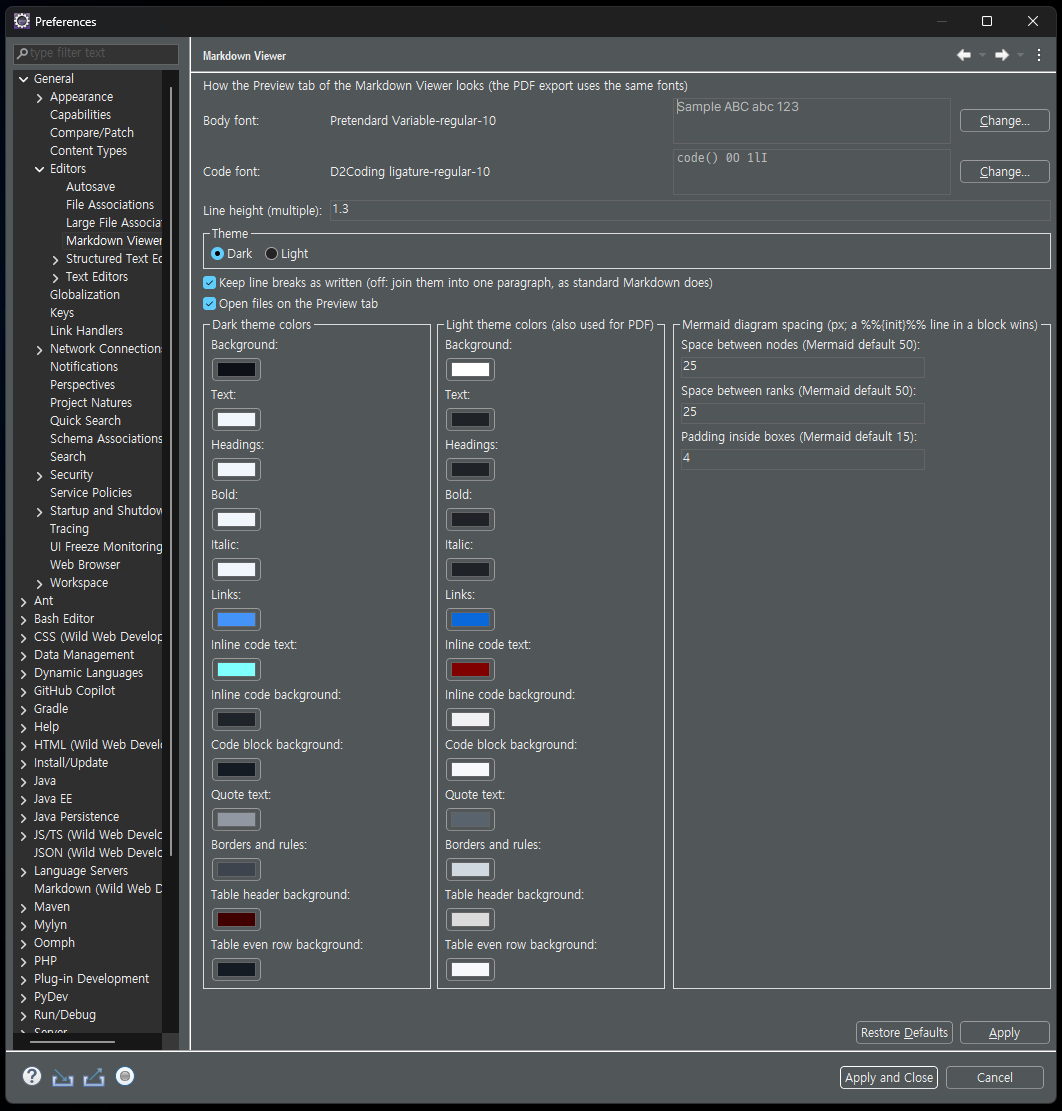
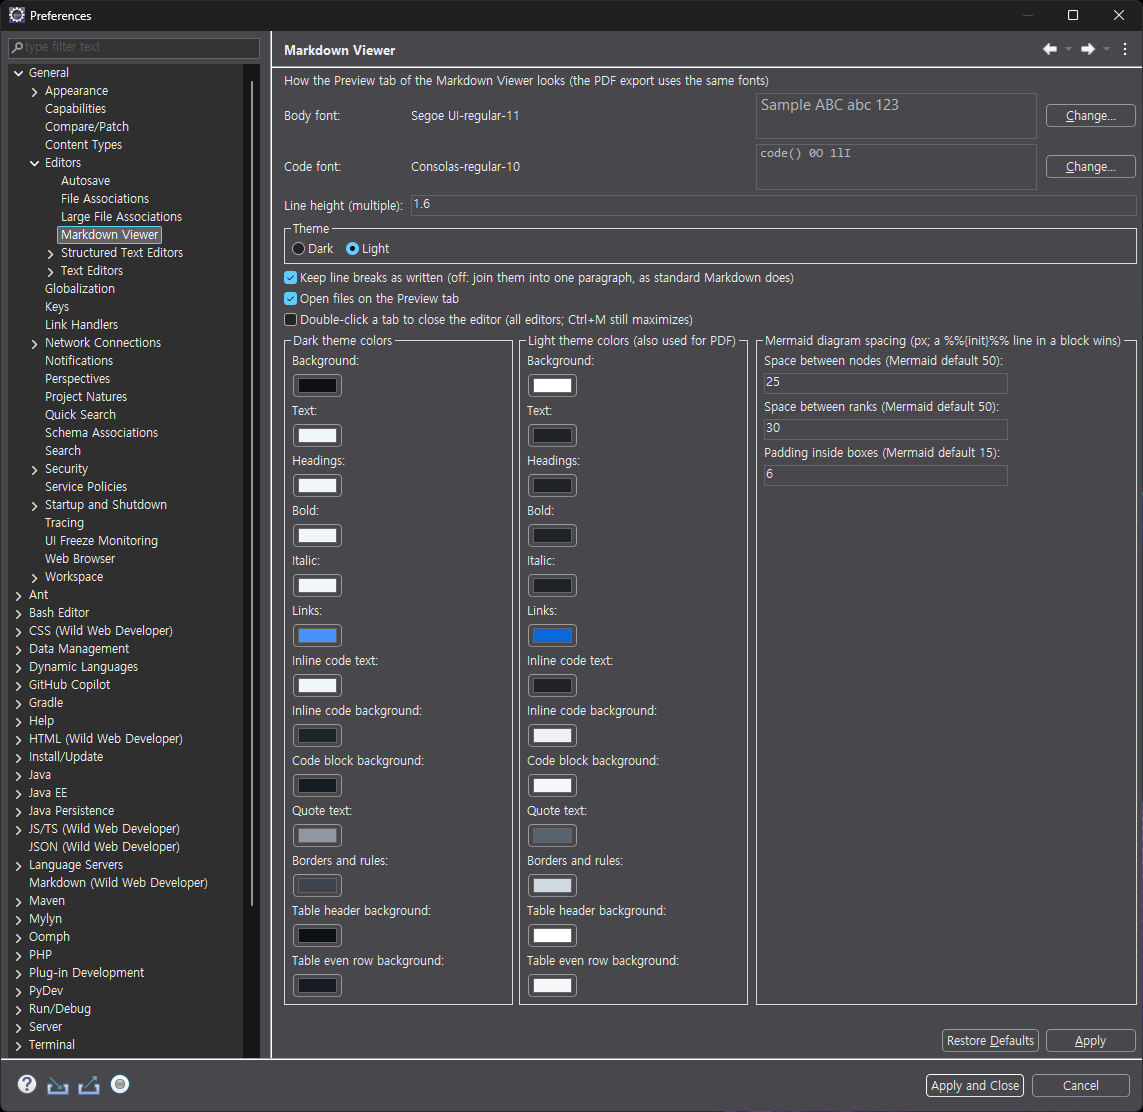
Default to Eclipse's own dialog and text fonts, not Korean ones; new screenshots with the defaults. Version 1.1.1.

Changed region(s): [[0.0, 0.0, 1.0, 1.0]]

diff --git a/web/preview.js b/web/preview.js
@@ -32,16 +32,16 @@ function createMd(markdownit, taskLists, hljs, getBase) {
 }
 if (typeof module !== 'undefined') module.exports = { createMd };
 
-let BASE = '', SRC = '', MERMAID = {}, FONTVARS = '', COLORS = { dark: {}, light: {} }, FONT = { name: 'Malgun Gothic', size: 11 }, THEME = 'dark', SPACING = { node: 25, rank: 30, pad: 6 };
+let BASE = '', SRC = '', MERMAID = {}, FONTVARS = '', COLORS = { dark: {}, light: {} }, FONT = { name: 'system-ui', size: 11 }, THEME = 'dark', SPACING = { node: 25, rank: 30, pad: 6 };
 const md = typeof window !== 'undefined' ? createMd(window.markdownit, window.markdownitTaskLists, window.hljs, () => BASE) : null;
 
 function applyStyle(font, size, code, csize, lh, theme, breaks, colors, spacing) {
 	md.set({ breaks: !!breaks }); // keep single newlines as <br>
 	const r = document.documentElement, s = r.style;
 	r.dataset.theme = theme;
-	s.setProperty('--font', `'${font}', 'Malgun Gothic', sans-serif`);
+	s.setProperty('--font', `'${font}', system-ui, sans-serif`);
 	s.setProperty('--size', size + 'pt');
-	s.setProperty('--code-font', `'${code}', D2Coding, Consolas, monospace`);
+	s.setProperty('--code-font', `'${code}', Consolas, monospace`);
 	s.setProperty('--code-size', csize + 'pt');
 	s.setProperty('--lh', lh);
 	// indent = width of 4 monospace Latin chars at body size
@@ -59,7 +59,7 @@ function applyStyle(font, size, code, csize, lh, theme, breaks, colors, spacing)
 	for (const [k, v] of Object.entries(COLORS[theme] || {})) s.setProperty(k, v);
 	document.getElementById('hl').href = theme === 'light' ? 'hl-light.css' : 'hl-dark.css';
 	// diagrams use the body font and size too
-	const ff = `'${font}', 'Malgun Gothic', sans-serif`;
+	const ff = `'${font}', system-ui, sans-serif`;
 	MERMAID = { startOnLoad: false, securityLevel: 'strict', theme: theme === 'light' ? 'default' : 'dark',
 		fontFamily: ff, themeVariables: { fontFamily: ff, fontSize: size + 'pt' }, ...mermaidSpacing(SPACING) };
 	mermaid.initialize(MERMAID);

diff --git a/web/preview.css b/web/preview.css
@@ -1,7 +1,7 @@
 /* layout after github-markdown-css; colors come from preferences (GitHub defaults below) */
 :root { --bg:#0d1117; --fg:#f0f6fc; --heading:#f0f6fc; --strong:#f0f6fc; --em:#f0f6fc; --link:#4493f8; --code:#f0f6fc;
 	--code-bg:#1f232a; --pre-bg:#151b23; --quote:#9198a1; --border:#3d444d; --th-bg:#0d1117; --row-alt:#151b23;
-	--font:'Malgun Gothic',sans-serif; --size:11pt; --code-font:D2Coding,Consolas,monospace; --code-size:10pt; --lh:1.6; --indent:4ch }
+	--font:system-ui,sans-serif; --size:11pt; --code-font:Consolas,monospace; --code-size:10pt; --lh:1.6; --indent:4ch }
 html { background:var(--bg) }
 body { margin:0; padding:16px 32px 32px; color:var(--fg); background:var(--bg); font-family:var(--font); font-size:var(--size); line-height:var(--lh); overflow-wrap:break-word }
 body.export { padding:0 }

diff --git a/src/io/github/insjang/mdviewer/PrefInit.java b/src/io/github/insjang/mdviewer/PrefInit.java
@@ -3,6 +3,7 @@ package io.github.insjang.mdviewer;
 import org.eclipse.core.runtime.preferences.AbstractPreferenceInitializer;
 import org.eclipse.jface.preference.IPreferenceStore;
 import org.eclipse.jface.preference.PreferenceConverter;
+import org.eclipse.jface.resource.JFaceResources;
 import org.eclipse.swt.SWT;
 import org.eclipse.swt.graphics.FontData;
 
@@ -14,8 +15,9 @@ public class PrefInit extends AbstractPreferenceInitializer {
 	@Override
 	public void initializeDefaultPreferences() {
 		IPreferenceStore s = Activator.prefs();
-		PreferenceConverter.setDefault(s, BODY_FONT, new FontData("Malgun Gothic", 11, SWT.NORMAL));
-		PreferenceConverter.setDefault(s, CODE_FONT, new FontData("D2Coding ligature", 10, SWT.NORMAL));
+		// Eclipse's own dialog and text fonts (Segoe UI and Consolas on Windows), so the defaults exist everywhere
+		PreferenceConverter.setDefault(s, BODY_FONT, new FontData(JFaceResources.getFontRegistry().getFontData(JFaceResources.DIALOG_FONT)[0].getName(), 11, SWT.NORMAL));
+		PreferenceConverter.setDefault(s, CODE_FONT, new FontData(JFaceResources.getFontRegistry().getFontData(JFaceResources.TEXT_FONT)[0].getName(), 10, SWT.NORMAL));
 		s.setDefault(LINE_HEIGHT, "1.6");
 		s.setDefault(THEME, "dark");
 		s.setDefault(OPEN_PREVIEW, true);

diff --git a/README.md b/README.md
@@ -6,11 +6,9 @@ It renders GitHub Flavored Markdown with the same parser VS Code uses (markdown-
 
 [한국어 README](README.ko.md)
 
-| Dark theme | Light theme |
-|---|---|
-| ![Preview tab in Eclipse, dark theme](docs/images/eclipse-preview.png) | ![Preview tab in Eclipse, light theme](docs/images/eclipse-light.png) |
-
-![Mermaid and PlantUML in the preview](docs/images/eclipse-diagrams.png)
+| Source tab | Preview tab, dark theme | Preview tab, light theme |
+|---|---|---|
+| ![Source tab in Eclipse](docs/images/eclipse-source.png) | ![Preview tab in Eclipse, dark theme](docs/images/eclipse-preview.png) | ![Preview tab in Eclipse, light theme](docs/images/eclipse-light.png) |
 
 | Dark theme | Light theme (also used for PDF) |
 |---|---|
@@ -84,12 +82,12 @@ Every build gets a new version qualifier, so a plain restart picks up a replaced
 
 Preferences > General > Editors > Markdown Viewer
 
-![Markdown Viewer preferences (the values shown are customized, not the defaults)](docs/images/preferences.png)
+![Markdown Viewer preferences: the defaults, with the light theme selected](docs/images/preferences.png)
 
 | Setting | Default |
 |---|---|
-| Body font | Malgun Gothic 11 pt |
-| Code font | D2Coding ligature 10 pt (ligatures are turned off in the preview) |
+| Body font | Eclipse dialog font, 11 pt (Segoe UI on English Windows, Malgun Gothic on Korean Windows) |
+| Code font | Eclipse text font, 10 pt (Consolas on Windows; ligatures are turned off in the preview) |
 | Line height | 1.6 |
 | Theme | Dark |
 | Keep line breaks as written | On (off: standard Markdown, lines join into one paragraph) |

diff --git a/README.ko.md b/README.ko.md
@@ -2,11 +2,9 @@
 
 [English README](README.md)
 
-| 다크 테마 | 라이트 테마 |
-|---|---|
-| ![Eclipse 안의 Preview 탭, 다크 테마](docs/images/eclipse-preview.png) | ![Eclipse 안의 Preview 탭, 라이트 테마](docs/images/eclipse-light.png) |
-
-![미리보기의 Mermaid와 PlantUML](docs/images/eclipse-diagrams.png)
+| Source 탭 | Preview 탭, 다크 테마 | Preview 탭, 라이트 테마 |
+|---|---|---|
+| ![Eclipse 안의 Source 탭](docs/images/eclipse-source.png) | ![Eclipse 안의 Preview 탭, 다크 테마](docs/images/eclipse-preview.png) | ![Eclipse 안의 Preview 탭, 라이트 테마](docs/images/eclipse-light.png) |
 
 | 다크 테마 | 라이트 테마 (PDF에도 사용) |
 |---|---|
@@ -80,12 +78,12 @@ ECLIPSE=/path/to/eclipse ./build.sh site       # build/site 에 p2 업데이트 
 
 Preferences → General → Editors → Markdown Viewer
 
-![Markdown Viewer 설정 화면 (기본값이 아닌 사용자 설정 상태)](docs/images/preferences.png)
+![Markdown Viewer 설정 화면: 기본값에서 라이트 테마만 선택한 상태](docs/images/preferences.png)
 
 | 항목 | 기본값 |
 |---|---|
-| 본문 글꼴 | 맑은 고딕 11pt |
-| 코드 글꼴 | D2Coding ligature 10pt (Preview에서는 합자 끔) |
+| 본문 글꼴 | Eclipse 대화상자 글꼴 11pt (한국어 Windows: 맑은 고딕, 영문 Windows: Segoe UI) |
+| 코드 글꼴 | Eclipse 텍스트 글꼴 10pt (Windows: Consolas, Preview에서는 합자 끔) |
 | 줄 간격 | 1.6 |
 | 테마 | 어둡게 |
 | 원문 줄바꿈 그대로 표시 | 켜짐 (끄면 표준 Markdown처럼 한 문단으로 합침) |
